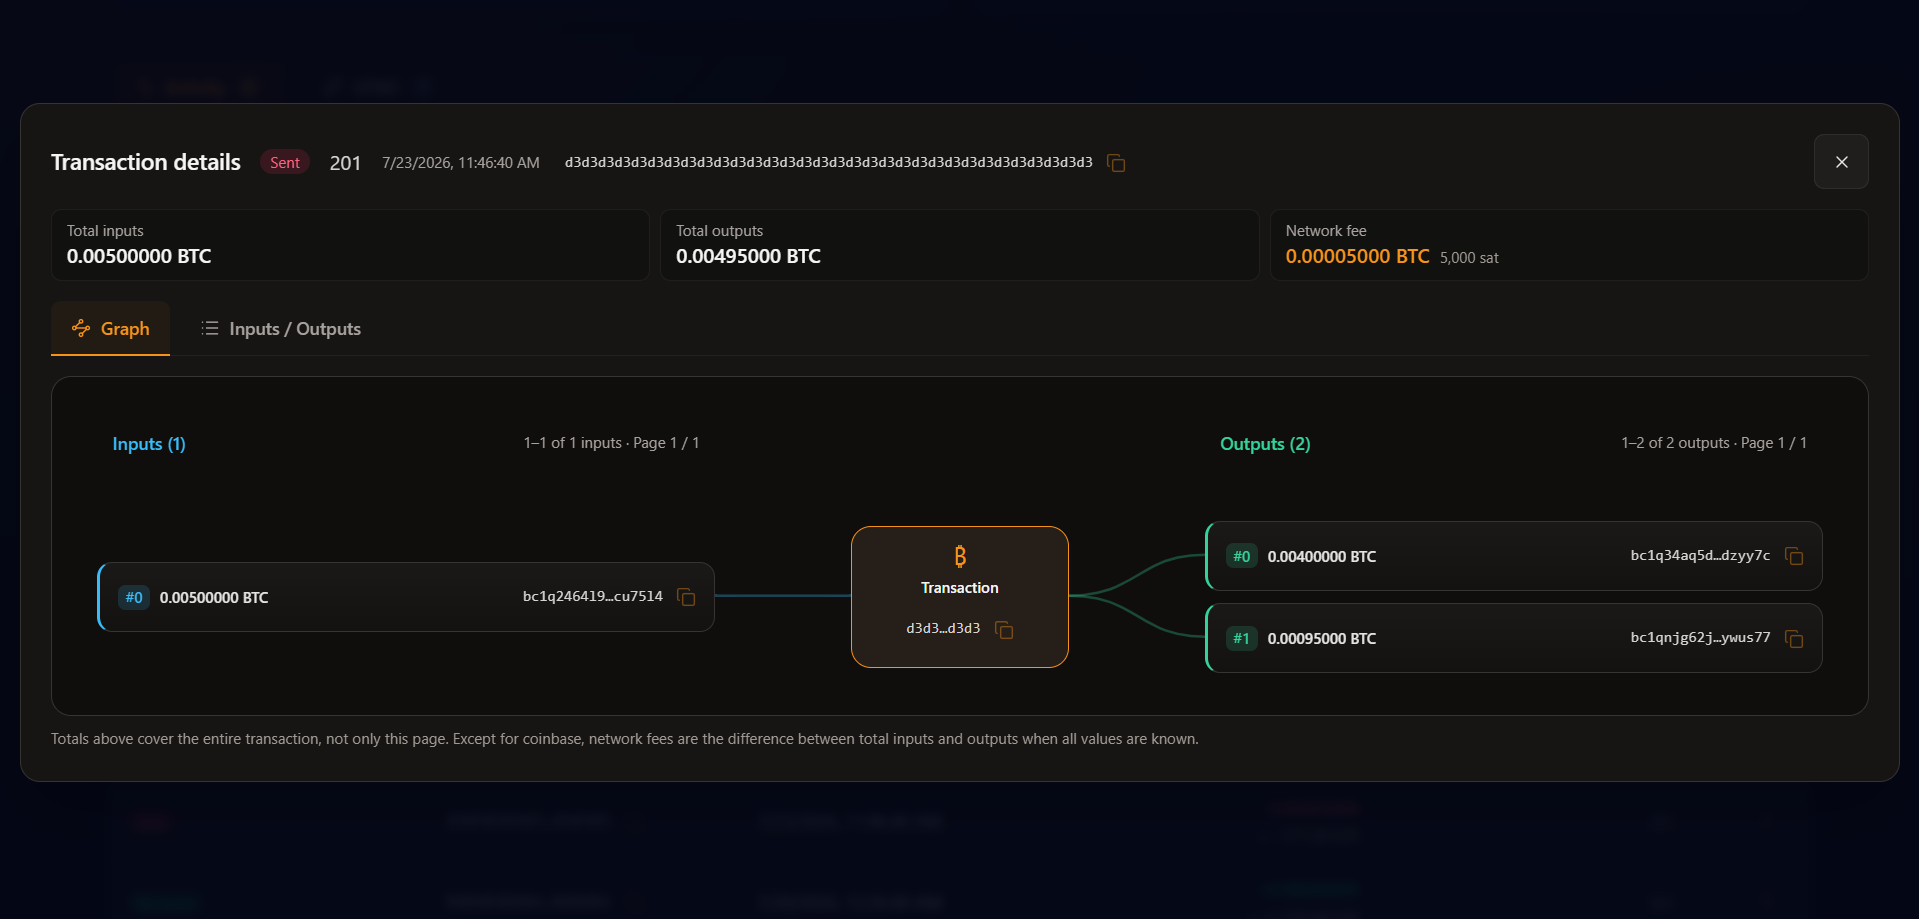
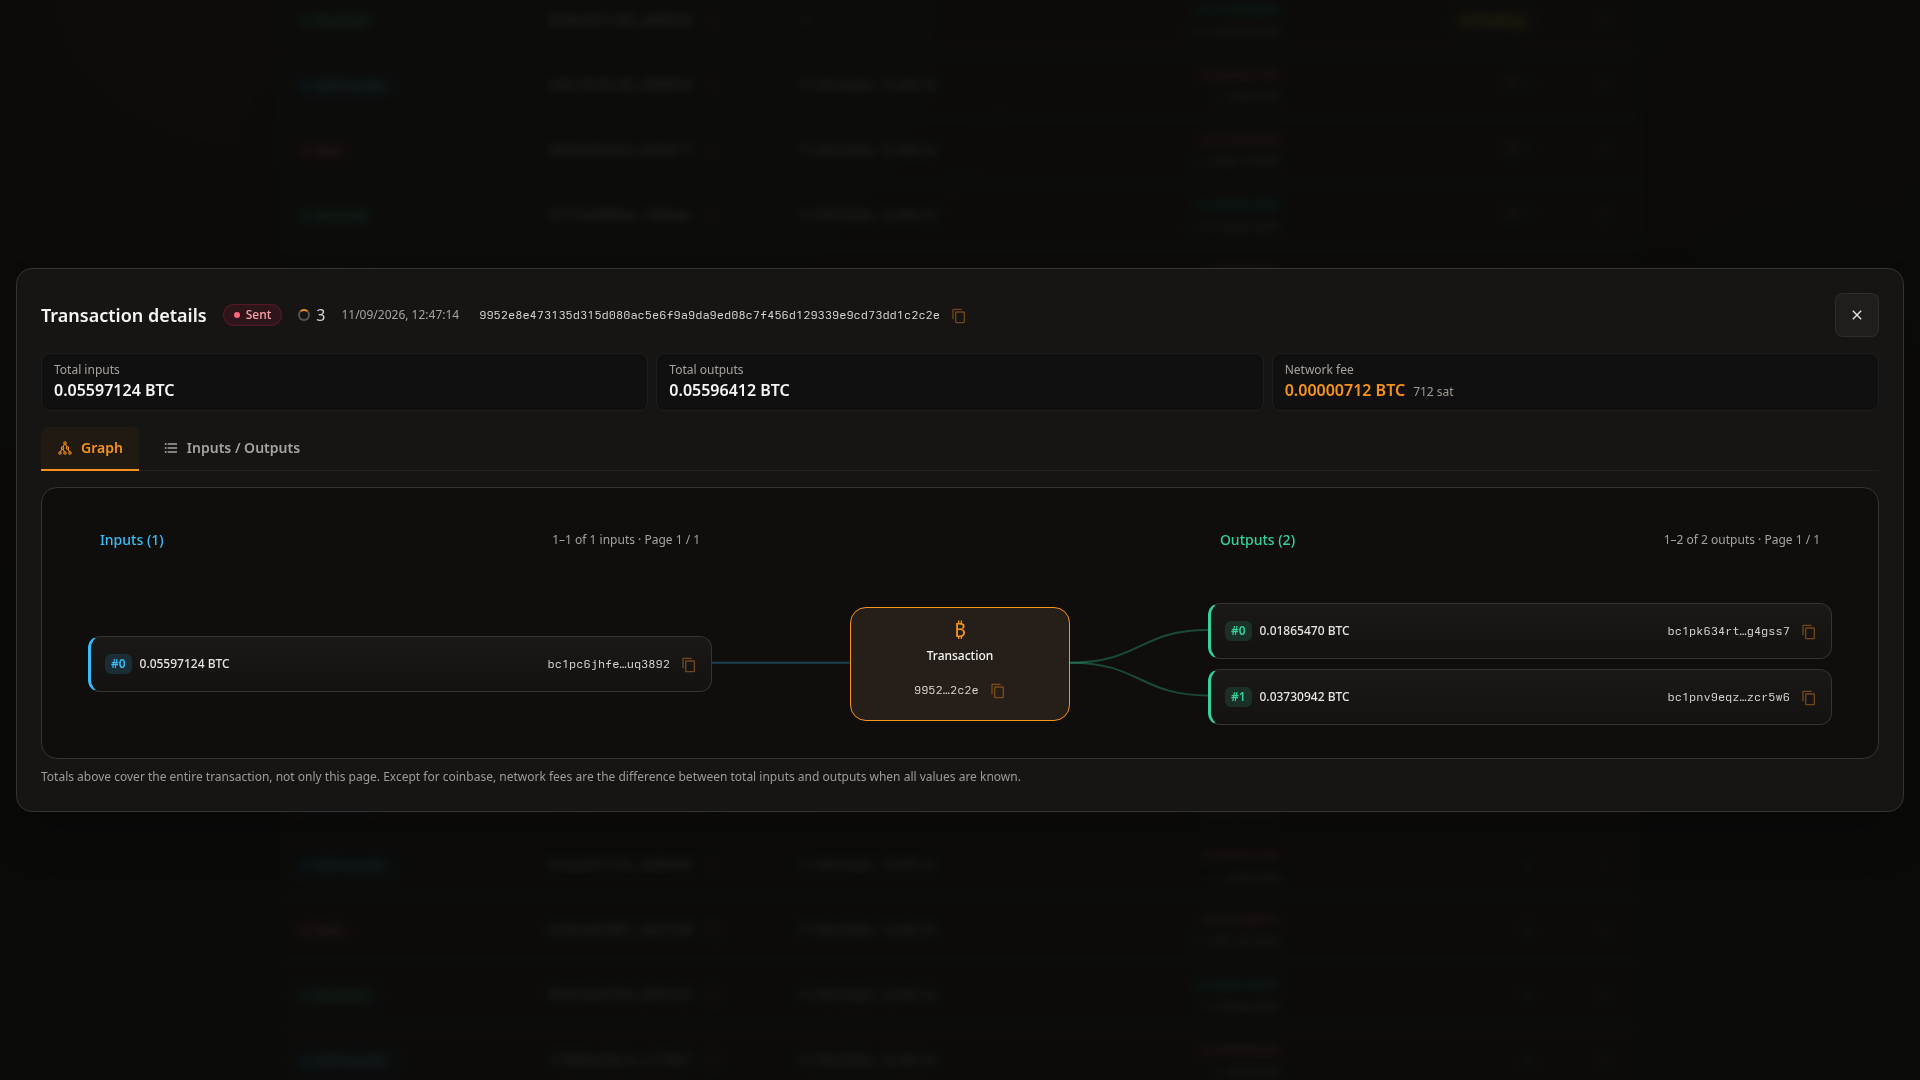
Add new screenshots

diff --git a/README.md b/README.md
@@ -52,15 +52,48 @@ Like many people, I run an Electrum node that I deliberately keep **off the publ
 **This wallet does NOT exist and holds NO REAL FUNDS.**<br>
 **Nothing shown here corresponds to any real Bitcoin wallet, address or transaction.**
 
-_Screenshots from [demo mode](#demo-mode)._
+_Screenshots from [demo mode](#demo-mode). Network fee estimates, EUR/USD quotes and historical fiat values are mocked for these captures; they are not live market data._
 
 </div>
 
-<p align="center"><img src="docs/dashboard.png" alt="Bitcoin Wallet Viewer dashboard showing mock data" width="820"></p>
+<p align="center"><img src="docs/dashboard.png" alt="Demo dashboard with Bitcoin balance, EUR valuation, network fee estimate and transaction activity" width="820"></p>
 
-<p align="center"><img src="docs/transaction.png" alt="Bitcoin Wallet Viewer transaction details popup showing mock data" width="820"></p>
+<p align="center"><img src="docs/balance-history.png" alt="Demo balance history with Bitcoin balance, portfolio value and mocked historical BTC price in EUR" width="820"></p>
 
-<p align="center"><img src="docs/balance-history.png" alt="Bitcoin Wallet Viewer balance-over-time chart showing mock data" width="820"></p>
+<details>
+<summary>More Desktop Screenshots</summary>
+
+Captured in headless Chrome with a 1920 × 1080 desktop viewport. The UTXO table and network fee panel are cropped to focus on their content.
+
+### Transaction Details
+
+<p align="center"><img src="docs/transaction.png" alt="Synthetic outgoing transaction with its input/output graph and transaction fee" width="820"></p>
+
+### Internal Consolidation
+
+<p align="center"><img src="docs/consolidation.png" alt="Self-transfer combining multiple wallet inputs into one output" width="820"></p>
+
+### Inputs And Outputs
+
+<p align="center"><img src="docs/inputs-outputs.png" alt="Detailed input and output addresses and amounts for a synthetic consolidation" width="820"></p>
+
+### Chart Transaction Summary
+
+<p align="center"><img src="docs/chart-transaction.png" alt="Historical balance chart with a transaction summary tooltip open" width="820"></p>
+
+### Unspent Outputs
+
+<p align="center"><img src="docs/utxos.png" alt="Desktop UTXO table showing addresses, outpoints, Bitcoin values and confirmations" width="820"></p>
+
+### Receive Address
+
+<p align="center"><img src="docs/receive.png" alt="Enlarged QR code for the synthetic wallet receive address" width="820"></p>
+
+### Network Fee Estimates
+
+<p align="center"><img src="docs/network-fees.png" alt="Mocked network fee estimates for fast, medium, slow and economy confirmation targets" width="320"></p>
+
+</details>
 
 ## Features
 

diff --git a/docs/DEMO.md b/docs/DEMO.md
@@ -28,6 +28,36 @@ A bundled public BIP86 test key is supplied by default. Explicit `WALLET_XPUB` /
 
 Electrum settings are unused, but public price/fee data may still be fetched from mempool.space. See [Configuration](../README.md#configuration) for the full settings reference.
 
+## Refresh README Screenshots
+
+The persistent [Playwright script](../src/main/webui/scripts/screenshots.mjs) captures nine views in headless Chromium. It uses a 1920 x 1080 desktop viewport and crops the UTXO table and network fee panel. EUR/USD quotes, historical fiat values and fee estimates are mocked only in the capture browser; wallet data still comes from the running application.
+
+**Use only a demo instance with no real wallet overrides.** The script does not enable demo mode or anonymize wallet data. Start the demo using the setup above, or run `WALLET_DEMO=true mvn quarkus:dev` under JDK 25 from the project root. Wait until the frontend is available at <http://127.0.0.1:8080>.
+
+Install the capture dependencies and browser once:
+
+```sh
+cd src/main/webui
+npm ci
+npx playwright install chromium
+```
+
+On Linux, install any missing browser system libraries as instructed by Playwright. Then, from `src/main/webui`:
+
+```sh
+npm run screenshots
+```
+
+This replaces the nine PNG files in `docs/`; the README already references them. Review the images and `git diff` before committing. If a capture fails, earlier images may already have been replaced; fix the cause and rerun.
+
+For another demo URL, an existing Chrome installation, or a preview directory:
+
+```sh
+npm run screenshots -- --url http://127.0.0.1:5180 --chrome-path /usr/sbin/google-chrome --output ../../../target/screenshots
+```
+
+`--output` is relative to the command's working directory. Without `--chrome-path`, the script uses Playwright's installed Chromium. Without `--output`, it writes to the repository's `docs/` directory regardless of the working directory. The application must already be running; the script starts only the headless browser and closes it on completion.
+
 ## Tests
 
 Run from the project root under JDK 25:
